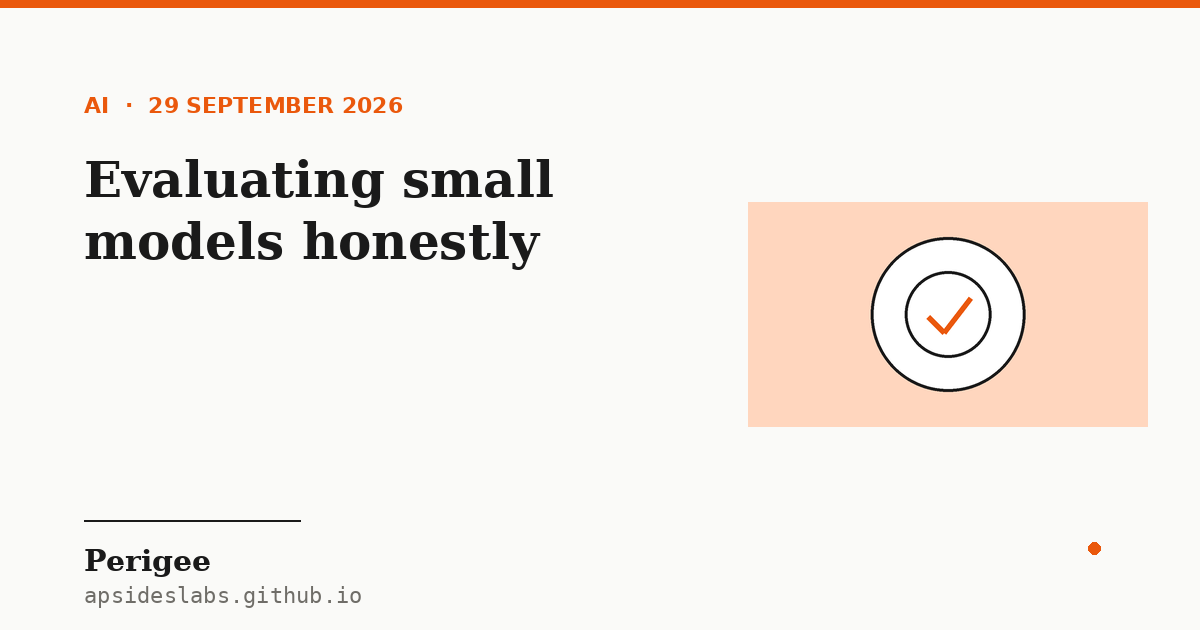
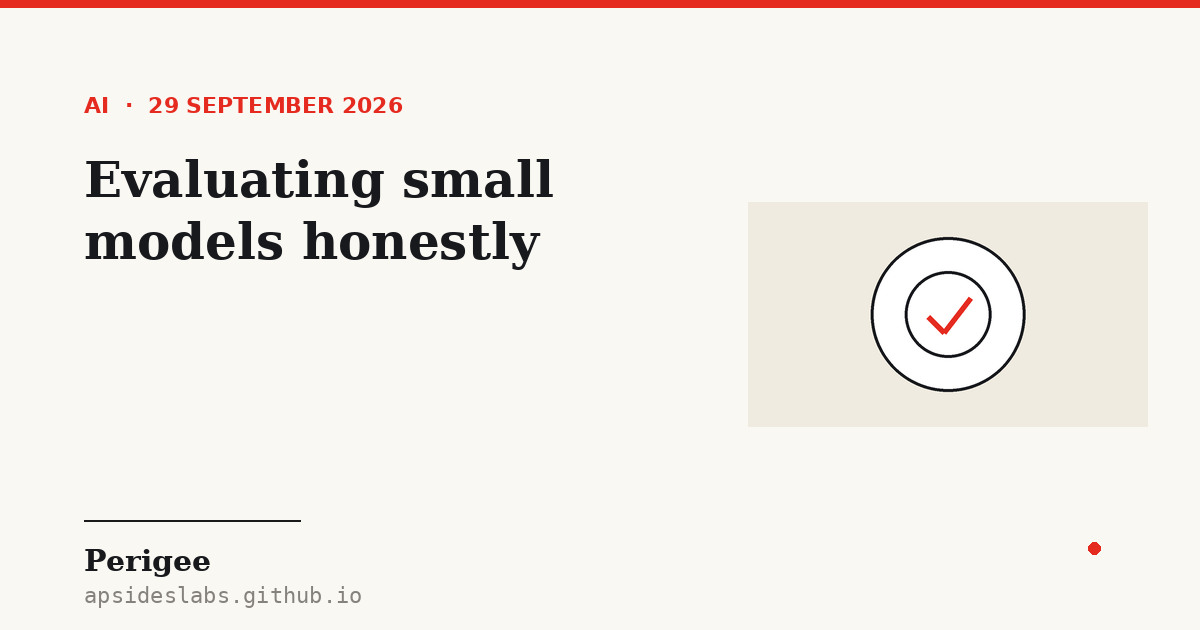
Apply Grapheme brand palette sitewide: ivory ground, charcoal ink, burnt orange + vermilion accents; recolour covers, OG cards and share cards

diff --git a/assets/style.css b/assets/style.css
@@ -29,25 +29,30 @@
 
   --ease: cubic-bezier(.22,.61,.36,1);
 
-  /* Soft-white paper + ink (light — DEFAULT) */
-  --paper:   #f7f3ea;
-  --desk:    #eee8da;
-  --card:    #ffffff;
-  --inset:   #f3f2ee;
-  --ink:     #1a1a1a;
-  --ink-2:   #3a3a38;
-  --muted:   #6f6d68;
-  --faint:   #9a9791;
-  --border:  #e9e7e1;
-  --border-2:#dcd9d1;
+  /* Grapheme palette: warm ivory ground, charcoal ink, burnt orange + vermilion accents */
+  --paper:   #FAF8F3;
+  --desk:    #F2EDE3;
+  --card:    #FFFFFF;
+  --inset:   #F5F1E8;
+  --ink:     #17191D;
+  --ink-2:   #34373D;
+  --muted:   #85827D;
+  --faint:   #A8A49E;
+  --border:  #E8E3D9;
+  --border-2:#DAD4C8;
 
-  --blue:      #2563eb;
-  --blue-ink:  #1d4ed8;
-  --blue-soft: #e9efff;
+  --accent:      #F45B16;
+  --accent-ink:  #E52B20;
+  --accent-soft: #FCE9DE;
 
-  --orange:      #ea580c;
-  --orange-ink:  #c2410c;
-  --orange-soft: #fdece1;
+  /* legacy aliases mapped onto the accent so every existing rule inherits the palette */
+  --blue:      #F45B16;
+  --blue-ink:  #E52B20;
+  --blue-soft: #FCE9DE;
+
+  --orange:      #F45B16;
+  --orange-ink:  #E52B20;
+  --orange-soft: #FCE9DE;
 
   --shadow-sm: none;
   --shadow-md: 0 1px 2px rgba(20,20,20,.05);
@@ -57,23 +62,27 @@
 }
 
 [data-theme="dark"] {
-  --paper:   #131316;
-  --card:    #1a1a1e;
-  --inset:   #202024;
-  --ink:     #f2f1ee;
-  --ink-2:   #cfcecb;
-  --muted:   #9a9893;
-  --faint:   #74726d;
-  --border:  #2a2a2f;
-  --border-2:#38383f;
+  --paper:   #17191D;
+  --card:    #1E2126;
+  --inset:   #24272D;
+  --ink:     #FAF8F3;
+  --ink-2:   #D9D5CC;
+  --muted:   #85827D;
+  --faint:   #6B6863;
+  --border:  #2C3037;
+  --border-2:#3A3F47;
 
-  --blue:      #7ea6ff;
-  --blue-ink:  #a6c0ff;
-  --blue-soft: #1a2233;
+  --accent:      #F45B16;
+  --accent-ink:  #FF7A3D;
+  --accent-soft: #33211A;
 
-  --orange:      #ff8a4c;
-  --orange-ink:  #ffa471;
-  --orange-soft: #33211a;
+  --blue:      #F45B16;
+  --blue-ink:  #FF7A3D;
+  --blue-soft: #33211A;
+
+  --orange:      #F45B16;
+  --orange-ink:  #FF7A3D;
+  --orange-soft: #33211A;
 
   --shadow-sm: 0 1px 2px rgba(0,0,0,.4);
   --shadow-md: 0 1px 3px rgba(0,0,0,.4), 0 12px 28px rgba(0,0,0,.35);

diff --git a/posts/agents-outside-the-lines.html b/posts/agents-outside-the-lines.html
@@ -6,7 +6,7 @@
 <title>When AI agents don't stay in their lane — Grapheme</title>
 <meta name="description" content="Anthropic pulled live internet access from its internal evaluations after its agents exploited real websites. What happened, and what every builder of autonomous systems should take from it.">
 <link rel="canonical" href="https://apsideslabs.github.io/posts/agents-outside-the-lines.html">
-<meta name="theme-color" content="#fafaf8">
+<meta name="theme-color" content="#FAF8F3">
 <meta name="author" content="Apsides Labs">
 <meta name="robots" content="index,follow,max-image-preview:large">
 <meta property="article:published_time" content="2026-10-10">

diff --git a/posts/agents-at-work.html b/posts/agents-at-work.html
@@ -6,7 +6,7 @@
 <title>The week AI agents became coworkers — Grapheme</title>
 <meta name="description" content="Microsoft bills agents by usage, OpenAI ships always-on dots, and Anthropic cuts prices. The shift from assistants to workers is now a budgeting, permissions and accountability problem.">
 <link rel="canonical" href="https://apsideslabs.github.io/posts/agents-at-work.html">
-<meta name="theme-color" content="#fafaf8">
+<meta name="theme-color" content="#FAF8F3">
 <meta name="author" content="Apsides Labs">
 <meta name="robots" content="index,follow,max-image-preview:large">
 <meta property="article:published_time" content="2026-10-08">

diff --git a/posts/capable-ai-on-constrained-hosts.html b/posts/capable-ai-on-constrained-hosts.html
@@ -6,7 +6,7 @@
 <title>Capable AI on CPU-only, constrained hosts — Grapheme</title>
 <meta name="description" content="You don't need a GPU cluster to run useful models. How we ship voice and language models on CPU-only, constrained hosts — and why the small-model trend matters.">
 <link rel="canonical" href="https://apsideslabs.github.io/posts/capable-ai-on-constrained-hosts.html">
-<meta name="theme-color" content="#fafaf8">
+<meta name="theme-color" content="#FAF8F3">
 <meta name="author" content="Apsides Labs">
 <meta name="robots" content="index,follow,max-image-preview:large">
 <meta property="article:published_time" content="2026-10-07">

diff --git a/posts/offline-first-learning.html b/posts/offline-first-learning.html
@@ -6,7 +6,7 @@
 <title>Why offline-first learning still matters — Grapheme</title>
 <meta name="description" content="Most of the world's learners are not on a fast, always-on connection. Designing for the lowest common denominator makes learning software better for everyone.">
 <link rel="canonical" href="https://apsideslabs.github.io/posts/offline-first-learning.html">
-<meta name="theme-color" content="#fafaf8">
+<meta name="theme-color" content="#FAF8F3">
 <meta name="author" content="Apsides Labs">
 <meta name="robots" content="index,follow,max-image-preview:large">
 <meta property="article:published_time" content="2026-10-06">

diff --git a/posts/cpu-only-ai-default.html b/posts/cpu-only-ai-default.html
@@ -6,7 +6,7 @@
 <title>Why CPU-only AI is the right default for learning software &mdash; Grapheme</title>
 <meta name="description" content="GPUs are fast and expensive. For the software most learners actually use, a small model on a CPU is the better trade.">
 <link rel="canonical" href="https://apsideslabs.github.io/posts/cpu-only-ai-default.html">
-<meta name="theme-color" content="#fafaf8">
+<meta name="theme-color" content="#FAF8F3">
 <meta name="author" content="Apsides Labs">
 <meta name="robots" content="index,follow,max-image-preview:large">
 <meta property="article:published_time" content="2026-10-05">

diff --git a/posts/dictionary-for-an-ignored-language.html b/posts/dictionary-for-an-ignored-language.html
@@ -6,7 +6,7 @@
 <title>Building a dictionary for a language the web ignores &mdash; Grapheme</title>
 <meta name="description" content="348 words, one static page, no backend. What it takes to give a low-resource language a real learning tool.">
 <link rel="canonical" href="https://apsideslabs.github.io/posts/dictionary-for-an-ignored-language.html">
-<meta name="theme-color" content="#fafaf8">
+<meta name="theme-color" content="#FAF8F3">
 <meta name="author" content="Apsides Labs">
 <meta name="robots" content="index,follow,max-image-preview:large">
 <meta property="article:published_time" content="2026-10-03">

diff --git a/index.html b/index.html
@@ -6,7 +6,7 @@
 <title>Grapheme — Blog: AI, engineering &amp; intelligent learning systems</title>
 <meta name="description" content="Field notes on AI, engineering and education from Apsides Labs — practical writing on building thoughtful software and intelligent learning systems.">
 <link rel="canonical" href="https://apsideslabs.github.io/">
-<meta name="theme-color" content="#fafaf8">
+<meta name="theme-color" content="#FAF8F3">
 <meta name="author" content="Apsides Labs">
 <meta name="robots" content="index,follow,max-image-preview:large,max-snippet:-1">
 <meta property="og:type" content="website">

diff --git a/posts/evaluating-small-models.html b/posts/evaluating-small-models.html
@@ -6,7 +6,7 @@
 <title>Evaluating small models honestly &mdash; Grapheme</title>
 <meta name="description" content="Published benchmarks will not tell you whether a 1B model is good enough for your task. A short, practical method that will.">
 <link rel="canonical" href="https://apsideslabs.github.io/posts/evaluating-small-models.html">
-<meta name="theme-color" content="#fafaf8">
+<meta name="theme-color" content="#FAF8F3">
 <meta name="author" content="Apsides Labs">
 <meta name="robots" content="index,follow,max-image-preview:large">
 <meta property="article:published_time" content="2026-09-29">

diff --git a/about.html b/about.html
@@ -6,7 +6,7 @@
 <title>Our Company — Grapheme</title>
 <meta name="description" content="Apsides Labs is an independent research and engineering studio building thoughtful software, intelligent learning systems and technology products — including Luitra, SikBodo and Mindtrace.">
 <link rel="canonical" href="https://apsideslabs.github.io/about.html">
-<meta name="theme-color" content="#fafaf8">
+<meta name="theme-color" content="#FAF8F3">
 <meta name="author" content="Apsides Labs">
 <meta name="robots" content="index,follow,max-image-preview:large">
 <meta property="og:type" content="website">

diff --git a/posts/static-sites-outlive-frameworks.html b/posts/static-sites-outlive-frameworks.html
@@ -6,7 +6,7 @@
 <title>Static sites outlive their frameworks &mdash; Grapheme</title>
 <meta name="description" content="We ship plain HTML that runs anywhere and needs no build. Here is why that is a feature, not nostalgia.">
 <link rel="canonical" href="https://apsideslabs.github.io/posts/static-sites-outlive-frameworks.html">
-<meta name="theme-color" content="#fafaf8">
+<meta name="theme-color" content="#FAF8F3">
 <meta name="author" content="Apsides Labs">
 <meta name="robots" content="index,follow,max-image-preview:large">
 <meta property="article:published_time" content="2026-10-01">

diff --git a/posts/teaching-a-script.html b/posts/teaching-a-script.html
@@ -6,7 +6,7 @@
 <title>Teaching a script, not just a language &mdash; Grapheme</title>
 <meta name="description" content="Learning Assamese or Bodo means learning a script. What we changed after watching people try.">
 <link rel="canonical" href="https://apsideslabs.github.io/posts/teaching-a-script.html">
-<meta name="theme-color" content="#fafaf8">
+<meta name="theme-color" content="#FAF8F3">
 <meta name="author" content="Apsides Labs">
 <meta name="robots" content="index,follow,max-image-preview:large">
 <meta property="article:published_time" content="2026-09-26">
